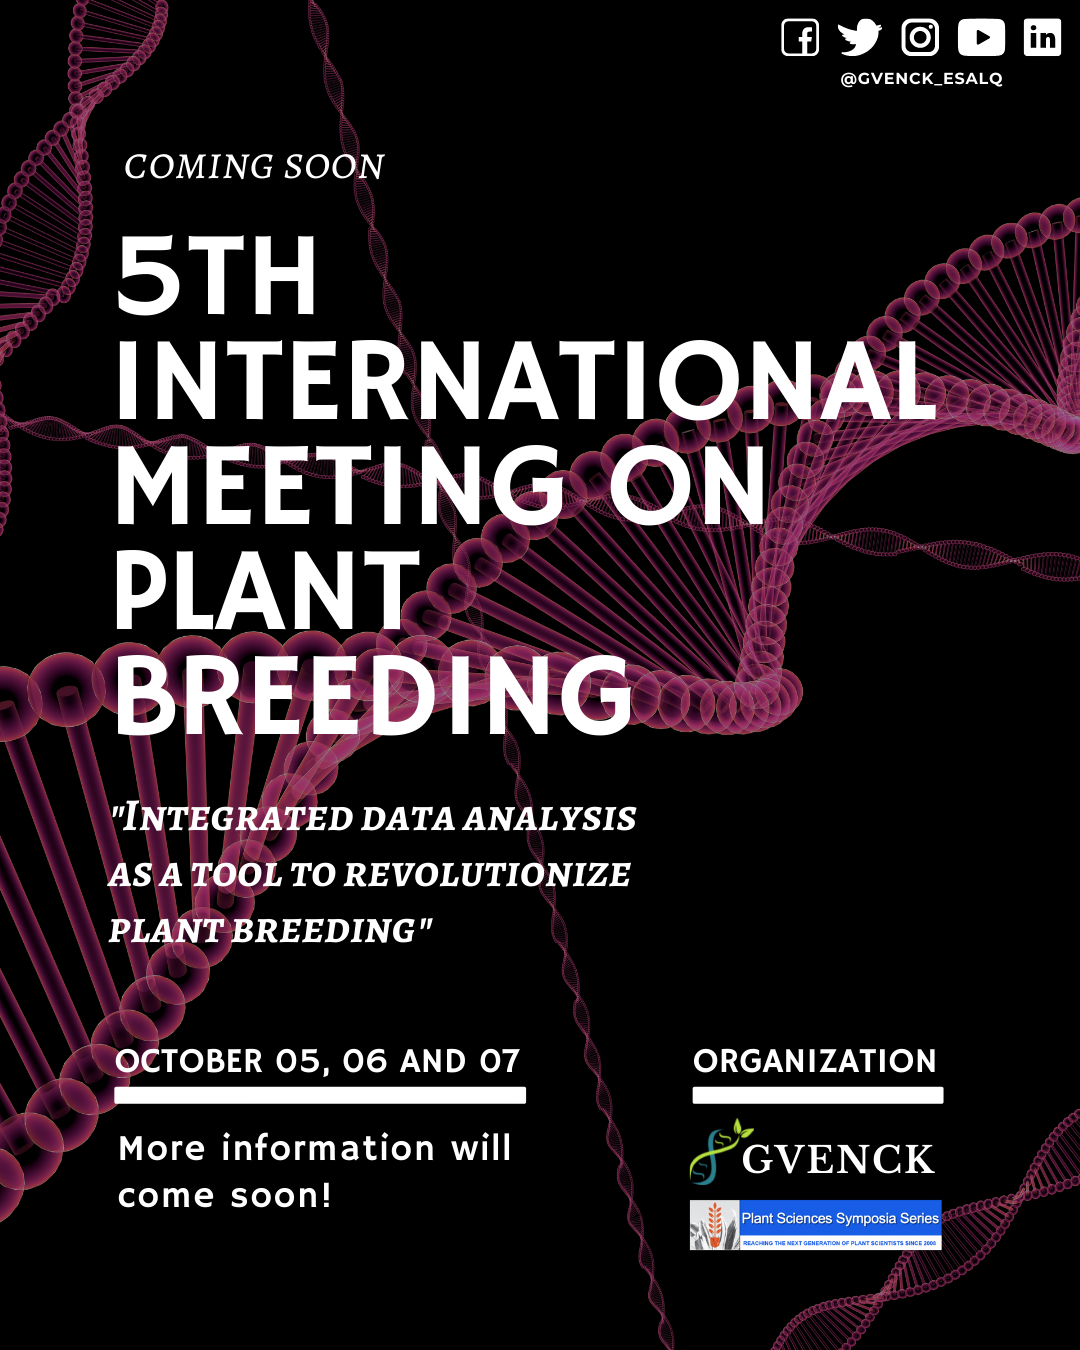
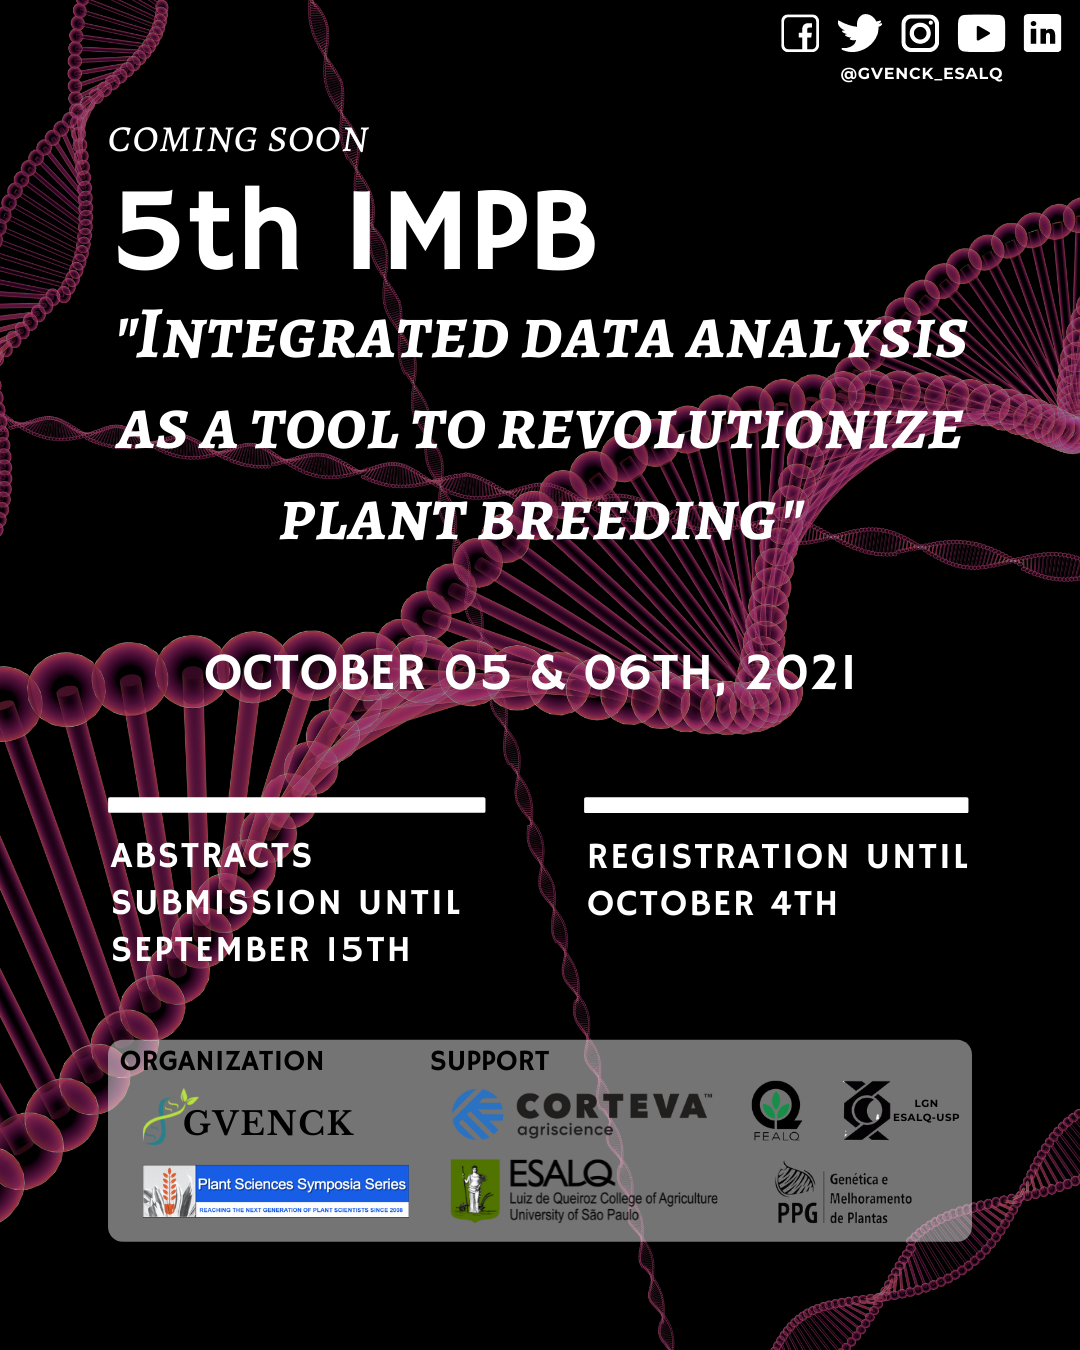
registration site 5impb

diff --git a/pages/5IMPB.md b/pages/5IMPB.md
@@ -13,7 +13,7 @@ tags: [events, gvenck]
 <br><br>
 
 **Registration deadline**: **October 4th, 2021**  
-**Registration**: [Coming soon]()  
+**Registration**: [Click here](https://fealq.org.br/eventos/5th-international-meeting-on-plant-breeding-integrated-data-analysis-as-a-tool-to-revolutionize-plant-breeding/)  
   
 **Abstract rules**: [Click here](../files/Rules_for_abstract_submissions.docx)  
   
